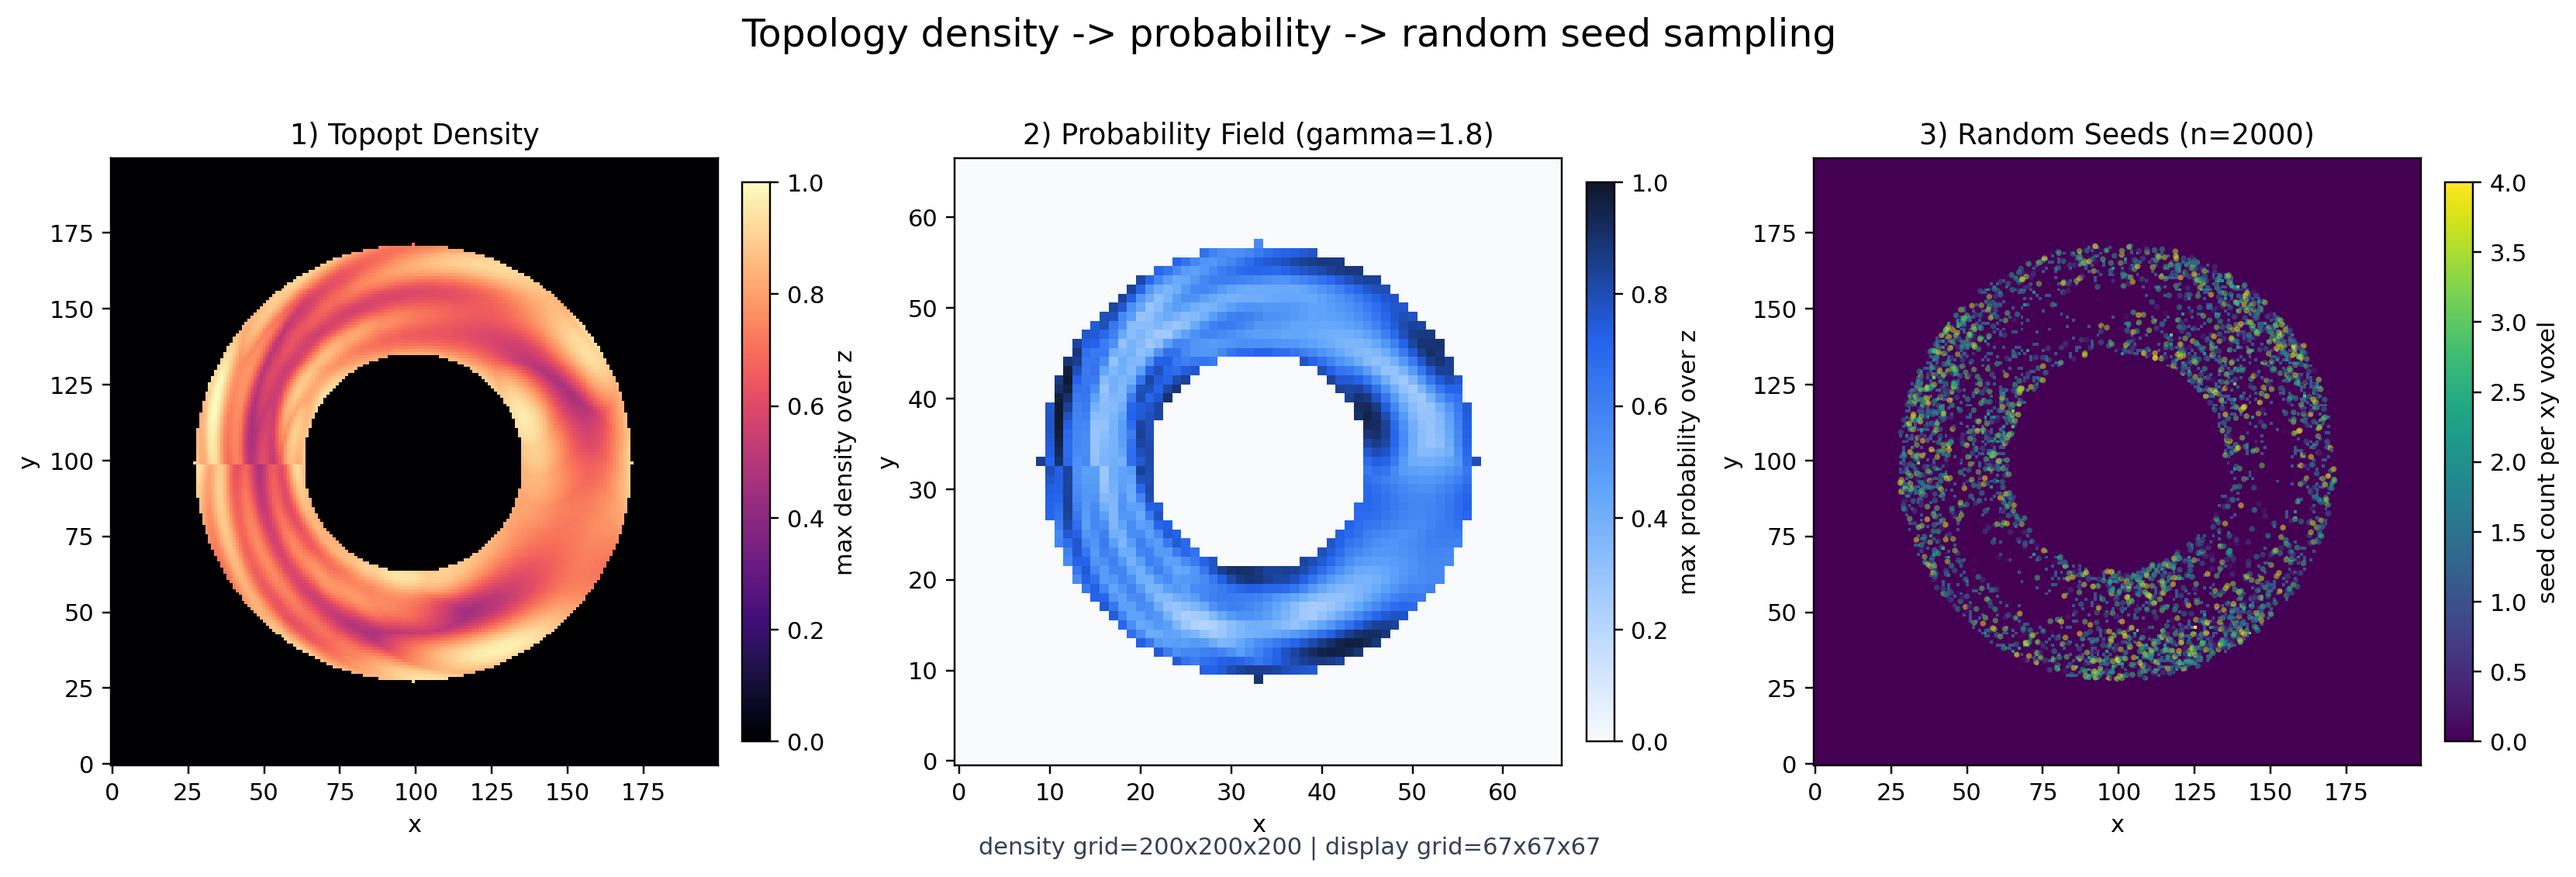
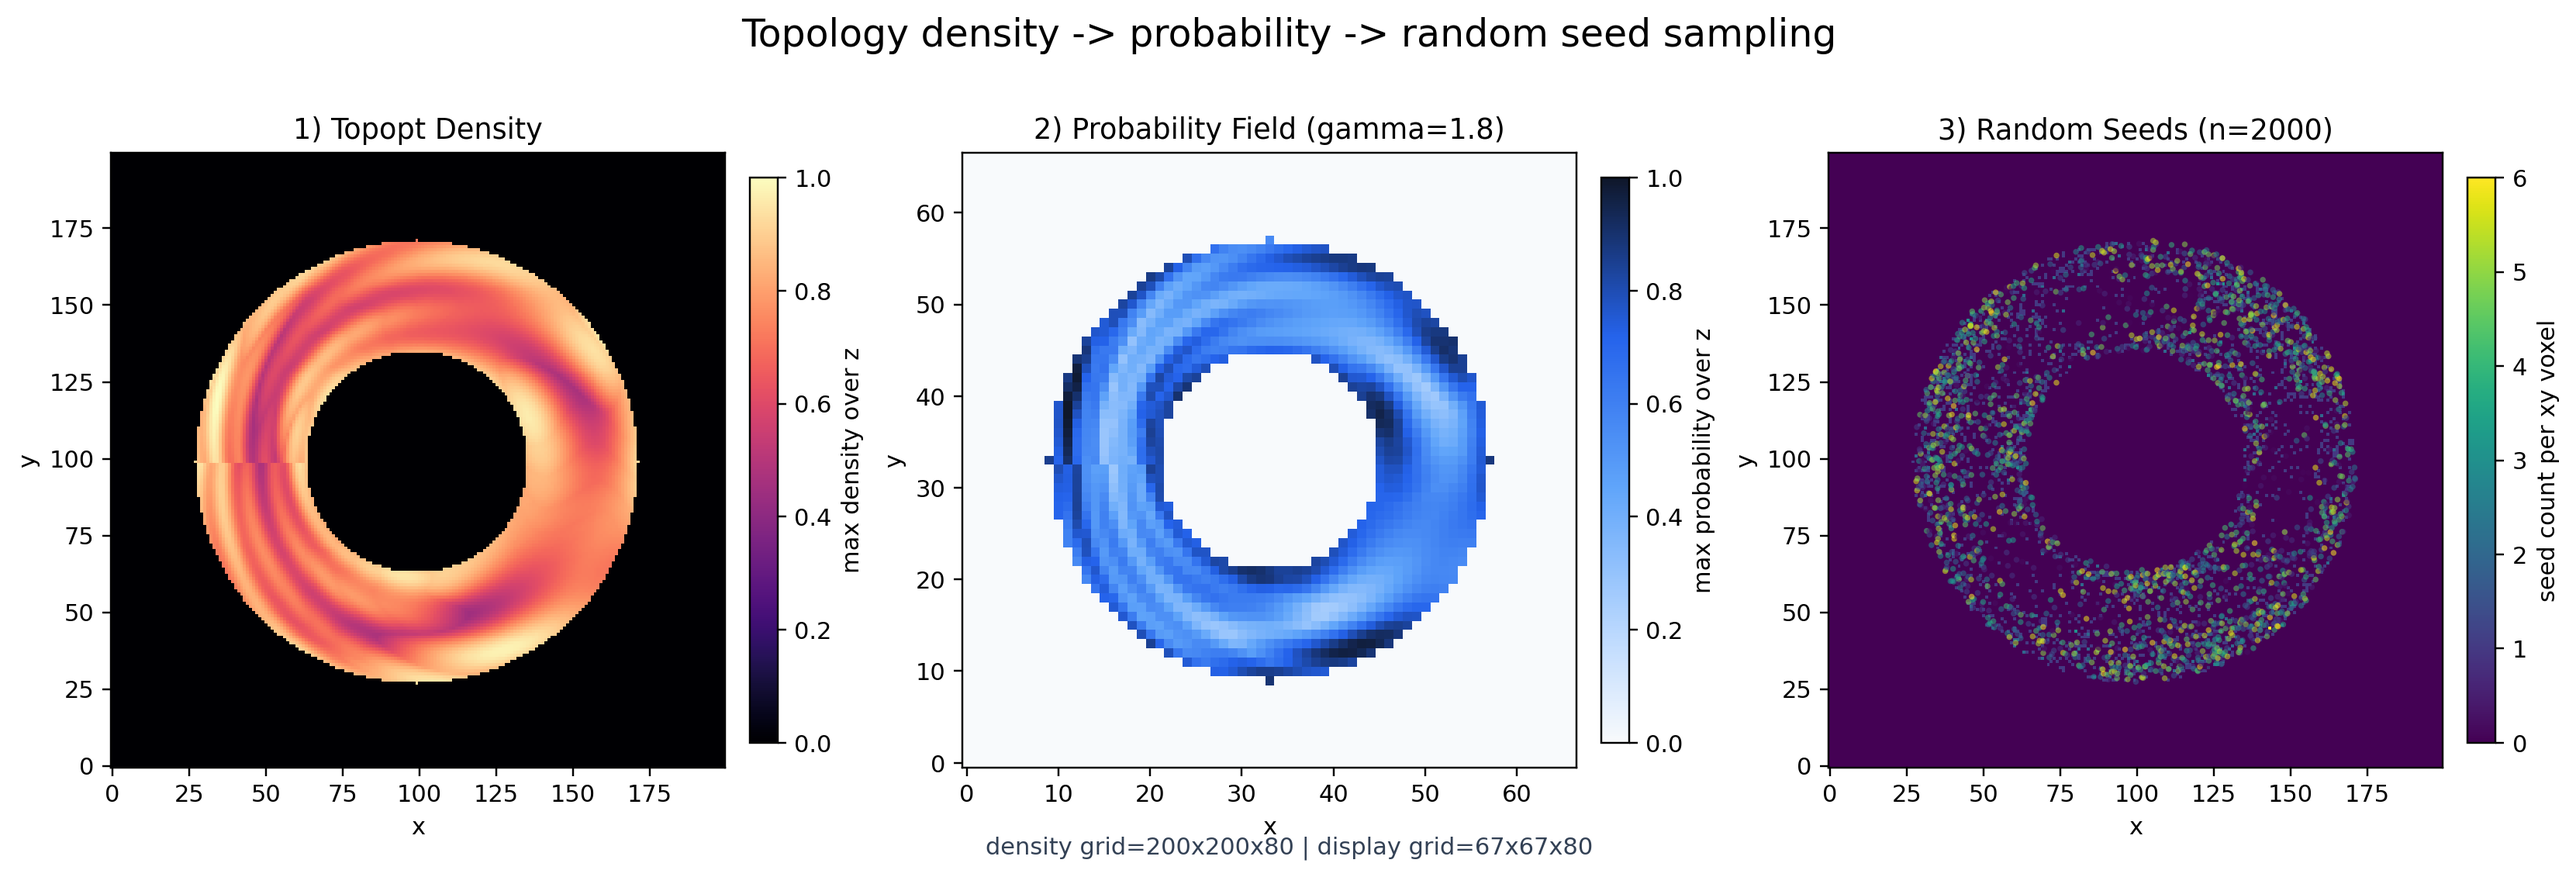
Reduce default topopt demo height to 80

diff --git a/experiments/voxel_demos/generate_voxel_torus_npz.py b/experiments/voxel_demos/generate_voxel_torus_npz.py
@@ -29,7 +29,7 @@ def build_annular_cylinder_chunk(
 def generate_annular_cylinder_npz(
     output_path: Path,
     xy_size: int = 200,
-    z_size: int = 200,
+    z_size: int = 80,
     outer_radius: float = 72.0,
     inner_radius: float = 36.0,
     chunk_depth: int = 8,
@@ -95,7 +95,7 @@ def parse_args() -> argparse.Namespace:
     parser.add_argument(
         "--output",
         type=Path,
-        default=Path("datasets/voxel/voxel_annular_cylinder_200x200x200.npz"),
+        default=Path("datasets/voxel/voxel_annular_cylinder_200x200x80.npz"),
         help="Output NPZ path.",
     )
     parser.add_argument(
@@ -107,7 +107,7 @@ def parse_args() -> argparse.Namespace:
     parser.add_argument(
         "--z-size",
         type=int,
-        default=200,
+        default=80,
         help="Grid size in z.",
     )
     parser.add_argument(

diff --git a/experiments/topopt_sampling/visualize_fake_density_result.py b/experiments/topopt_sampling/visualize_fake_density_result.py
@@ -106,7 +106,7 @@ def parse_args() -> argparse.Namespace:
         "result_npz",
         type=Path,
         nargs="?",
-        default=Path("datasets/topopt/fake_density_annular_cylinder_200x200x200.npz"),
+        default=Path("datasets/topopt/fake_density_annular_cylinder_200x200x80.npz"),
         help="Fake density result NPZ.",
     )
     parser.add_argument(
@@ -118,7 +118,7 @@ def parse_args() -> argparse.Namespace:
     parser.add_argument(
         "--output",
         type=Path,
-        default=Path("docs/assets/fake_density_annular_cylinder_200x200x200.png"),
+        default=Path("docs/assets/fake_density_annular_cylinder_200x200x80.png"),
         help="Output image path.",
     )
     parser.add_argument(

diff --git a/experiments/voxel_demos/visualize_voxel_torus_npz.py b/experiments/voxel_demos/visualize_voxel_torus_npz.py
@@ -85,7 +85,7 @@ def parse_args() -> argparse.Namespace:
         "npz_path",
         type=Path,
         nargs="?",
-        default=Path("datasets/voxel/voxel_annular_cylinder_200x200x200.npz"),
+        default=Path("datasets/voxel/voxel_annular_cylinder_200x200x80.npz"),
         help="Path to the NPZ file.",
     )
     parser.add_argument(
@@ -97,7 +97,7 @@ def parse_args() -> argparse.Namespace:
     parser.add_argument(
         "--output",
         type=Path,
-        default=Path("docs/assets/voxel_annular_cylinder_200x200x200.png"),
+        default=Path("docs/assets/voxel_annular_cylinder_200x200x80.png"),
         help="Optional image output path.",
     )
     parser.add_argument(

diff --git a/experiments/topopt_sampling/generate_fake_density_result.py b/experiments/topopt_sampling/generate_fake_density_result.py
@@ -119,13 +119,13 @@ def parse_args() -> argparse.Namespace:
         "source_npz",
         type=Path,
         nargs="?",
-        default=Path("datasets/voxel/voxel_annular_cylinder_200x200x200.npz"),
+        default=Path("datasets/voxel/voxel_annular_cylinder_200x200x80.npz"),
         help="Source voxel geometry NPZ.",
     )
     parser.add_argument(
         "--output",
         type=Path,
-        default=Path("datasets/topopt/fake_density_annular_cylinder_200x200x200.npz"),
+        default=Path("datasets/topopt/fake_density_annular_cylinder_200x200x80.npz"),
         help="Output fake density result NPZ.",
     )
     parser.add_argument(

diff --git a/src/topopt_sampling/cli.py b/src/topopt_sampling/cli.py
@@ -21,7 +21,7 @@ def build_sample_seeds_parser() -> argparse.ArgumentParser:
         "input_npz",
         type=Path,
         nargs="?",
-        default=Path("datasets/topopt/fake_density_annular_cylinder_200x200x200.npz"),
+        default=Path("datasets/topopt/fake_density_annular_cylinder_200x200x80.npz"),
         help="Topology density input (.npz or .mat).",
     )
     parser.add_argument("--num-seeds", type=int, default=2_000)

diff --git a/experiments/topopt_sampling/render_sampling_pipeline_overview.py b/experiments/topopt_sampling/render_sampling_pipeline_overview.py
@@ -114,7 +114,7 @@ def parse_args() -> argparse.Namespace:
     parser.add_argument(
         "--density-npz",
         type=Path,
-        default=Path("datasets/topopt/fake_density_annular_cylinder_200x200x200.npz"),
+        default=Path("datasets/topopt/fake_density_annular_cylinder_200x200x80.npz"),
     )
     parser.add_argument(
         "--seed-npz",

diff --git a/README.md b/README.md
@@ -57,14 +57,14 @@ CLI：
 
 ```bash
 uv run topopt-sampling sample-seeds \
-  datasets/topopt/fake_density_annular_cylinder_200x200x200.npz \
+  datasets/topopt/fake_density_annular_cylinder_200x200x80.npz \
   --num-seeds 2000 \
   --output-npz datasets/topopt/seed_probability_mapping_2000.npz
 ```
 
 示意图：
 
-![Fake Density Result](docs/assets/fake_density_annular_cylinder_200x200x200.png)
+![Fake Density Result](docs/assets/fake_density_annular_cylinder_200x200x80.png)
 
 ---
 
@@ -100,15 +100,15 @@ seed = voxel_index + uniform_jitter
 
 ## Demo Workflow
 
-仓库默认不提交新的 `200x200x200` demo 输入数据，所以推荐先按下面顺序生成。
+仓库默认不提交新的 `200x200x80` demo 输入数据，所以推荐先按下面顺序生成。
 
 ### A. 生成中空圆柱体素输入
 
 ```bash
 uv run python experiments/voxel_demos/generate_voxel_torus_npz.py \
-  --output datasets/voxel/voxel_annular_cylinder_200x200x200.npz \
+  --output datasets/voxel/voxel_annular_cylinder_200x200x80.npz \
   --xy-size 200 \
-  --z-size 200 \
+  --z-size 80 \
   --outer-radius 72 \
   --inner-radius 36
 ```
@@ -117,15 +117,15 @@ uv run python experiments/voxel_demos/generate_voxel_torus_npz.py \
 
 ```bash
 uv run python experiments/topopt_sampling/generate_fake_density_result.py \
-  datasets/voxel/voxel_annular_cylinder_200x200x200.npz \
-  --output datasets/topopt/fake_density_annular_cylinder_200x200x200.npz
+  datasets/voxel/voxel_annular_cylinder_200x200x80.npz \
+  --output datasets/topopt/fake_density_annular_cylinder_200x200x80.npz
 ```
 
 ### C. 从密度场采样随机种子点
 
 ```bash
 uv run topopt-sampling sample-seeds \
-  datasets/topopt/fake_density_annular_cylinder_200x200x200.npz \
+  datasets/topopt/fake_density_annular_cylinder_200x200x80.npz \
   --num-seeds 2000 \
   --output-npz datasets/topopt/seed_probability_mapping_2000.npz
 ```
@@ -134,7 +134,7 @@ uv run topopt-sampling sample-seeds \
 
 ```bash
 uv run python experiments/topopt_sampling/render_sampling_pipeline_overview.py \
-  --density-npz datasets/topopt/fake_density_annular_cylinder_200x200x200.npz \
+  --density-npz datasets/topopt/fake_density_annular_cylinder_200x200x80.npz \
   --seed-npz datasets/topopt/seed_probability_mapping_2000.npz \
   --output docs/assets/topopt_sampling_pipeline_overview.png
 ```
@@ -143,8 +143,8 @@ uv run python experiments/topopt_sampling/render_sampling_pipeline_overview.py \
 
 ```bash
 uv run python experiments/topopt_sampling/visualize_fake_density_result.py \
-  datasets/topopt/fake_density_annular_cylinder_200x200x200.npz \
-  --output docs/assets/fake_density_annular_cylinder_200x200x200.png
+  datasets/topopt/fake_density_annular_cylinder_200x200x80.npz \
+  --output docs/assets/fake_density_annular_cylinder_200x200x80.png
 ```
 
 ---

diff --git a/docs/voxel_torus_demo.md b/docs/voxel_torus_demo.md
@@ -1,6 +1,6 @@
 # Voxel Annular Cylinder Demo
 
-当前体素 demo 默认使用 `200 x 200 x 200` 的中空圆柱体。
+当前体素 demo 默认使用 `200 x 200 x 80` 的中空圆柱体。
 
 相关脚本：
 
@@ -11,9 +11,9 @@
 
 ```bash
 uv run python experiments/voxel_demos/generate_voxel_torus_npz.py \
-  --output datasets/voxel/voxel_annular_cylinder_200x200x200.npz \
+  --output datasets/voxel/voxel_annular_cylinder_200x200x80.npz \
   --xy-size 200 \
-  --z-size 200 \
+  --z-size 80 \
   --outer-radius 72 \
   --inner-radius 36
 ```
@@ -21,15 +21,15 @@ uv run python experiments/voxel_demos/generate_voxel_torus_npz.py \
 默认输出：
 
 ```text
-datasets/voxel/voxel_annular_cylinder_200x200x200.npz
+datasets/voxel/voxel_annular_cylinder_200x200x80.npz
 ```
 
 ## 可视化体素输入
 
 ```bash
 uv run python experiments/voxel_demos/visualize_voxel_torus_npz.py \
-  datasets/voxel/voxel_annular_cylinder_200x200x200.npz \
-  --output docs/assets/voxel_annular_cylinder_200x200x200.png
+  datasets/voxel/voxel_annular_cylinder_200x200x80.npz \
+  --output docs/assets/voxel_annular_cylinder_200x200x80.png
 ```
 
 如果需要弹出窗口：
